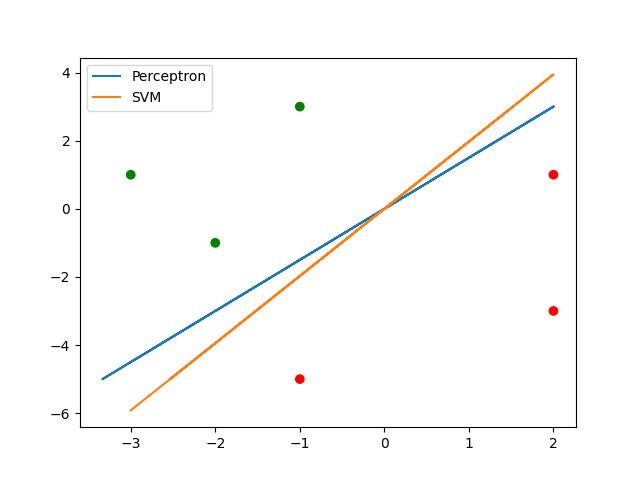
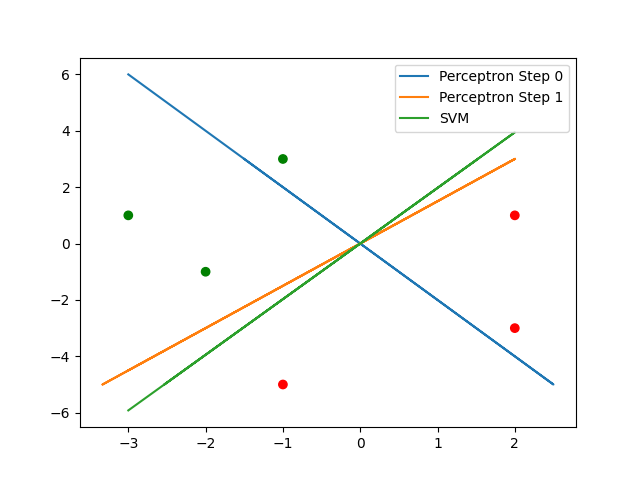
Exercise 02.01 Update

diff --git a/Exercise_02/code/exercise_01.py b/Exercise_02/code/exercise_01.py
@@ -11,7 +11,7 @@ S = [
 ]
 
 
-def plot(S, w_perc, w_svm):
+def plot(S, w_percs, w_svm):
     # scatter points
     x_values = [s[0][0] for s in S]
     y_values = [s[0][1] for s in S]
@@ -25,7 +25,10 @@ def plot(S, w_perc, w_svm):
     y_min = min(y_values)
     y_max = max(y_values)
 
-    for w in [w_perc, w_svm]:
+    w_list = list(w_percs + [w_svm])
+
+    for i in range(len(w_list)):
+        w = w_list[i]
         ortho_w = (-w[1], w[0])
 
         p_1 = (x_min, ortho_w[1] * (x_min / ortho_w[0]))
@@ -36,7 +39,7 @@ def plot(S, w_perc, w_svm):
         p_x_values = (p_1[0], p_2[0], p_3[0], p_4[0])
         p_y_values = (p_1[1], p_2[1], p_3[1], p_4[1])
 
-        pyplot.plot(p_x_values, p_y_values, label=('Perceptron' if w==w_perc else 'SVM'))#
+        pyplot.plot(p_x_values, p_y_values, label=('SVM' if w==w_svm else f'Perceptron Step {i}'))#
 
     pyplot.legend()
 
@@ -64,7 +67,8 @@ def check_consistency(S, w) -> bool:
     return True
 
 
-def perceptron(S) -> tuple:
+def perceptron(S) -> list:
+    w_list = list()
     w = (0, 0)
     while not check_consistency(S, w):
         for s in S:
@@ -74,11 +78,12 @@ def perceptron(S) -> tuple:
                 w_x = w[0] + s[1] * s[0][0]
                 w_y = w[1] + s[1] * s[0][1]
                 w = (w_x, w_y)
+                w_list.append(w)
                 # printing formatted for latex. Just copy and paste
                 print(f'Updating vector $w={w_old}$ using $(x,y)={s}$ \\\\')
                 print(
                     f'$w={w} \\rightarrow w={w_old} + y={s[1]} * x={s[0]}$ \\\\ \n\\bigskip \n')
-    return w
+    return w_list
 
 
 def margin(S, w) -> float:
@@ -90,18 +95,17 @@ def margin(S, w) -> float:
 def svm(S) -> tuple:
     classifier = LinearSVC(fit_intercept=False) # force heterogenous (fit_intercept=False)
     classifier.fit([[s[0][0], s[0][1]] for s in S], [s[1] for s in S])
-    print(classifier.intercept_)
     return (classifier.coef_[0][0], classifier.coef_[0][1])
 
 
 if __name__ == '__main__':
     print(f'Perceptron Learning: \\\\ \n\\bigskip \n')
-    w_perc = perceptron(S)
-    print(f'Margin: ${margin(S,w_perc)}$')
+    w_percs = perceptron(S)
+    print(f'Margin: ${margin(S,w_percs[-1])}$')
 
     print(f'SVM Learning: \\\\ \n\\bigskip \n')
     w_svm = svm(S)
     print(f'$w^*: {w_svm}$ \\\\')
     print(f'Margin: ${margin(S, w_svm)}$')
 
-    plot(S, w_perc, w_svm)
+    plot(S, w_percs, w_svm)

diff --git a/Exercise_02/exercise.tex b/Exercise_02/exercise.tex
@@ -79,7 +79,6 @@ See \refname{appendix} for code.
 	\item	SVM Learning: \\
 			\bigskip
 
-			0.0
 			$w^*: (-0.6074814098863559, 0.30790724037405226)$ \\
 			Margin: $1.9555332420486629$
 \end{enumerate}
